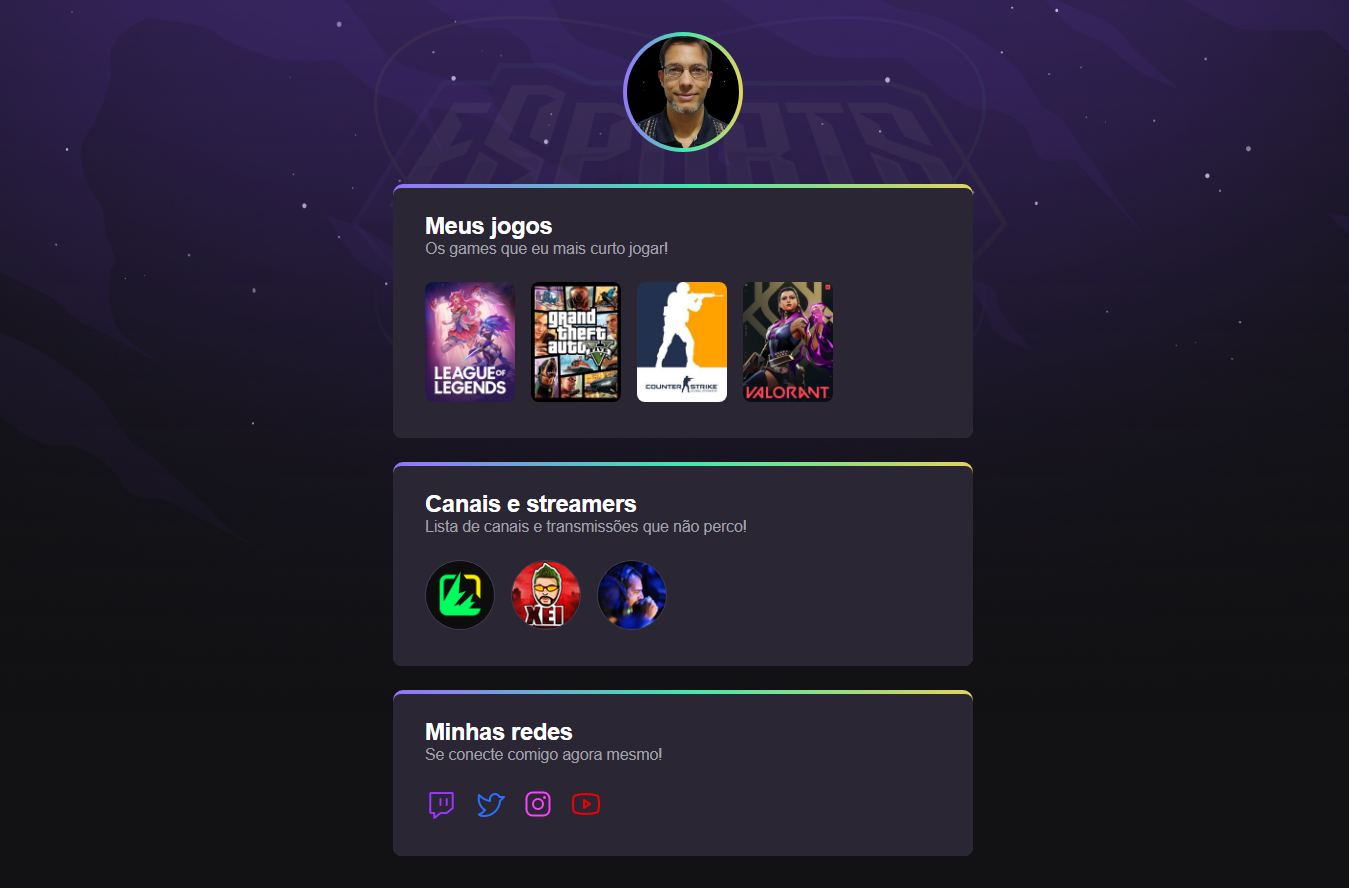
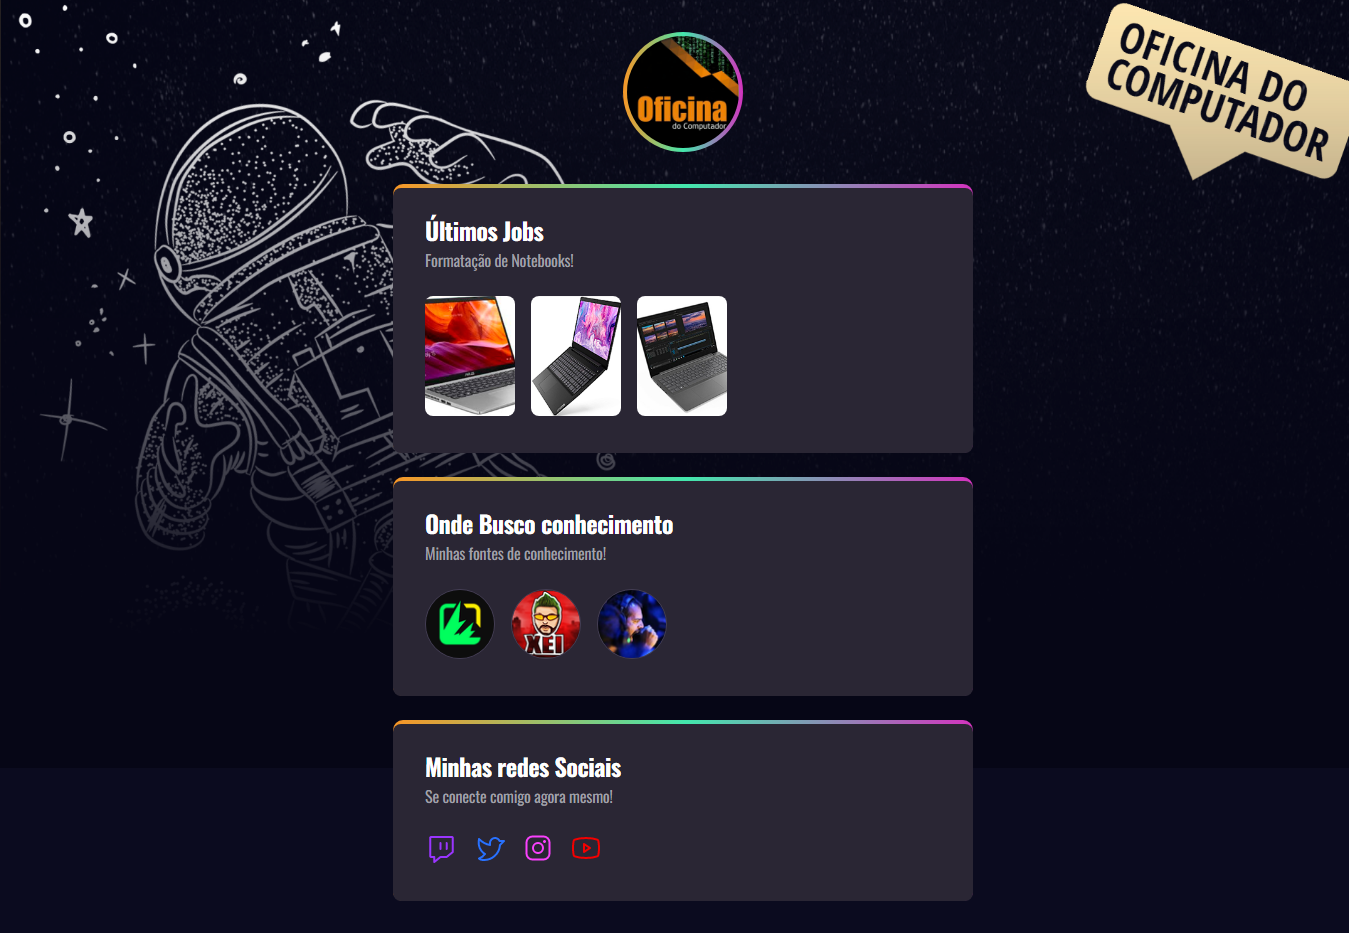
add challenge

diff --git a/index.html b/index.html
@@ -2,9 +2,14 @@
 <html lang="pt-br">
     <head>
 
+        <!-- 
         <link rel="preconnect" href="https://fonts.googleapis.com">
         <link rel="preconnect" href="https://fonts.gstatic.com" crossorigin>
-        <link href="https: //fonts.googleapis.com/css2? família= Inter:wght@400;900 & display=swap" rel="stylesheet">
+        <link href="https: //fonts.googleapis.com/css2? família= Inter:wght@400;900 & display=swap" rel="stylesheet"> -->
+
+        <link rel="preconnect" href="https://fonts.googleapis.com">
+        <link rel="preconnect" href="https://fonts.gstatic.com" crossorigin>
+        <link href="https://fonts.googleapis.com/css2?family=Oswald:wght@400;700&display=swap" rel="stylesheet">
 
         <meta charset="UTF-8"/>
         <meta name="viewport" content="width=device-width, initial-scale=1.0"/>
@@ -14,7 +19,8 @@
     <body>
         <header>
             <div>
-                <img src="https://github.com/robsferreira.png" alt="Foto de Robson Ferreira"/>
+                <!-- <img src="https://github.com/robsferreira.png" alt="Foto de Robson Ferreira"/> -->
+                <img src="./assets/perfil.png" alt="Foto de Oficina do computador"/>
             </div>
         </header>
 
@@ -22,31 +28,25 @@
 
             <section>
                 <div>
-                    <h2>Meus jogos</h2>
-                    <p>Os games que eu mais curto jogar!</p>
+                    <h2>Últimos Jobs</h2>
+                    <p>Formatação de Notebooks!</p>
 
                     <ul class="games-list">
                         <li>
-                            <a href="https://www.twitch.tv/directory/game/League%20of%20Legends" target="_blank">
-                                <img src="https://static-cdn.jtvnw.net/ttv-boxart/21779-188x250.jpg" alt="League of Legends">
+                            <a href="#" target="_blank">
+                                <img src="./assets/job1.png" alt="Primeiro Notebook Formatado">
                             </a>
                         </li>
 
                         <li>
-                            <a href="https://www.twitch.tv/directory/game/Grand%20Theft%20Auto%20V" target="_blank">
-                                <img src="https://static-cdn.jtvnw.net/ttv-boxart/32982_IGDB-188x250.jpg" alt="Grand Theft Auto V">
+                            <a href="#" target="_blank">
+                                <img src="./assets/job2.png" alt="Segundo Notebook Formatado">
                             </a>
                         </li>
 
                         <li>
-                            <a href="https://www.twitch.tv/directory/game/Counter-Strike%3A%20Global%20Offensive" target="_blank">
-                                <img src="https://static-cdn.jtvnw.net/ttv-boxart/32399_IGDB-188x250.jpg" alt="Counter-Strike: Global Offensive">
-                            </a>
-                        </li>
-
-                        <li>
-                            <a href="https://www.twitch.tv/directory/game/VALORANT" target="_blank">
-                                <img src="https://static-cdn.jtvnw.net/ttv-boxart/516575-188x250.jpg" alt="VALORANT">
+                            <a href="#" target="_blank">
+                                <img src="./assets/job3.png" alt="Terceiro Notebook Formatado">
                             </a>
                         </li>
 
@@ -62,8 +62,8 @@
 
             <section>
                 <div>
-                    <h2>Canais e streamers</h2>
-                    <p>Lista de canais e transmissões que não perco!</p>
+                    <h2>Onde Busco conhecimento</h2>
+                    <p>Minhas fontes de conhecimento!</p>
 
                     <ul class="channel-list">
                         <li>
@@ -96,7 +96,7 @@
 
             <section>
                 <div>
-                    <h2>Minhas redes</h2>
+                    <h2>Minhas redes Sociais</h2>
                     <p>Se conecte comigo agora mesmo!</p>
 
                     <ul class="social-list">

diff --git a/style.css b/style.css
@@ -9,15 +9,16 @@ ul {
 }
 
 body {
-    background-image: url(./assets/bg.jpg);
+    background-image: url(./assets/bg2.png);
     background-position: top center;
     background-size: 100% auto;
     background-repeat: no-repeat;
-    background-color: #121214;
+    background-color: #0b0b1f;
 }
 
 body * {
-    font-family: 'Inter', sans-serif;
+    /* font-family: 'Inter', sans-serif; */
+    font-family: 'Oswald', sans-serif;
 }
 
 header {
@@ -27,7 +28,7 @@ header {
 header div {
     width: 120px;
     margin: auto;
-    background-image: linear-gradient(90deg, #9572FC 0%, #43E7AD 50.52%, #E2D45C 100%);
+    background-image: linear-gradient(90deg, #f89626 0%, #43E7AD 50.52%, #d333be 100%);
 
 
     border-radius: 50%;
@@ -57,7 +58,7 @@ main {
 
 section {
     color: white;
-    background-image: linear-gradient(90deg, #9572FC 0%, #43E7AD 50.52%, #E2D45C 100%);
+    background-image: linear-gradient(90deg, #f89626 0%, #43E7AD 50.52%, #d333be 100%);
     padding-top: 4px;
     border-radius: 10px;
 }
@@ -112,7 +113,7 @@ header div {
 }
 
 main section {
-    animation: fromBottom .7s .2s backwards;
+    animation: fromBottom .60s .2s backwards;
 }
 
 main section:nth-child(1) {
@@ -142,7 +143,7 @@ main  section:nth-child(3) {
 @keyframes fromBottom {
     from {
         opacity: 0;
-        transform: translateY(30px);
+        transform: translateY(-30px);
     }
 
     to {

diff --git a/readme.md b/readme.md
@@ -1,12 +1,12 @@
-# NLW eSports
+# Oficina do Computador
 
 ![preview](./.github/preview.png)
 
->Trilha Explorer
+>Cuidando do seu equipamento como se fosse nosso.
 
-Projeto construído no evento NExt Level Week (NLW) da Rocketseat.
+Desafio enviado pelo grande Mayk Brito.
 
-  [🔗 Clique aqui para acessar](https://robsferreira.github.io/NLW-eSPORTS-Explorer/) 
+  [🔗 Clique aqui para acessar](https://robsferreira.github.io/oficina_do-computador/) 
     
 
   ## 👨💻 Tecnologias 
